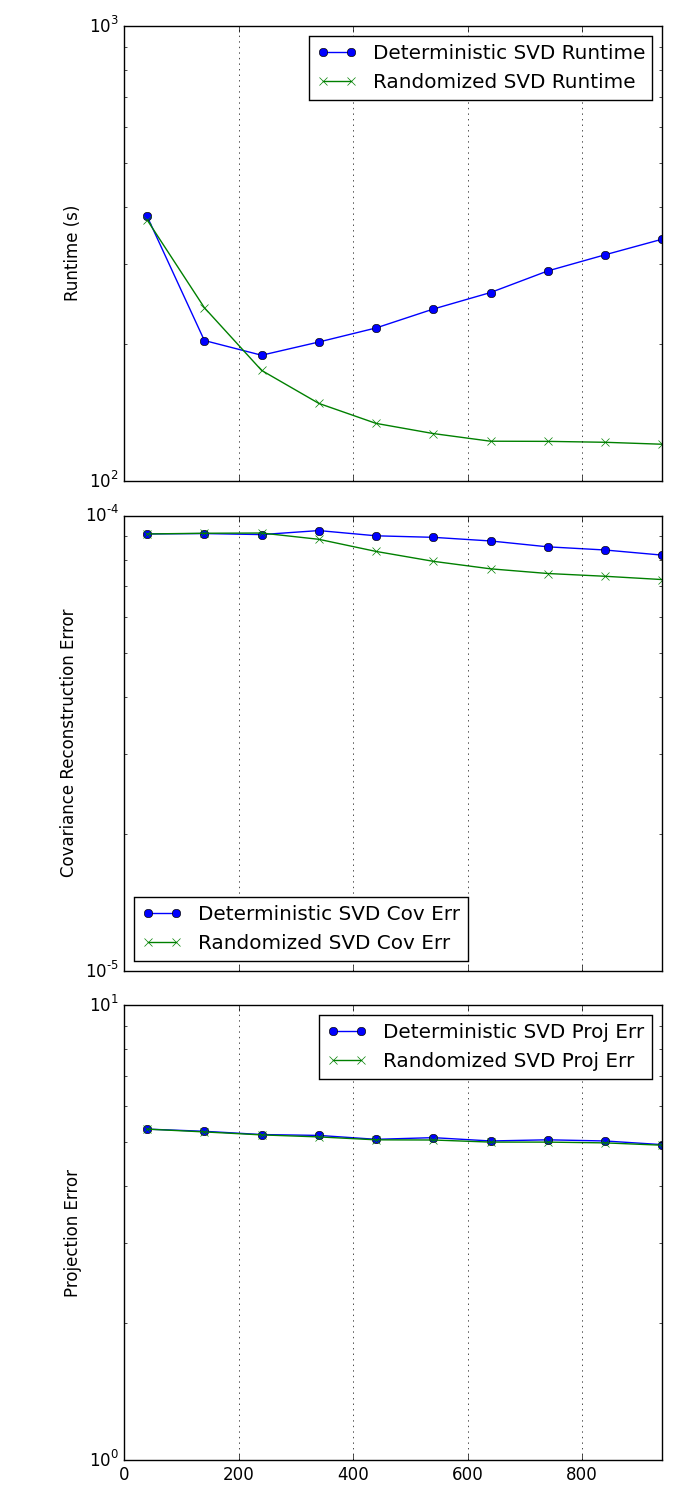
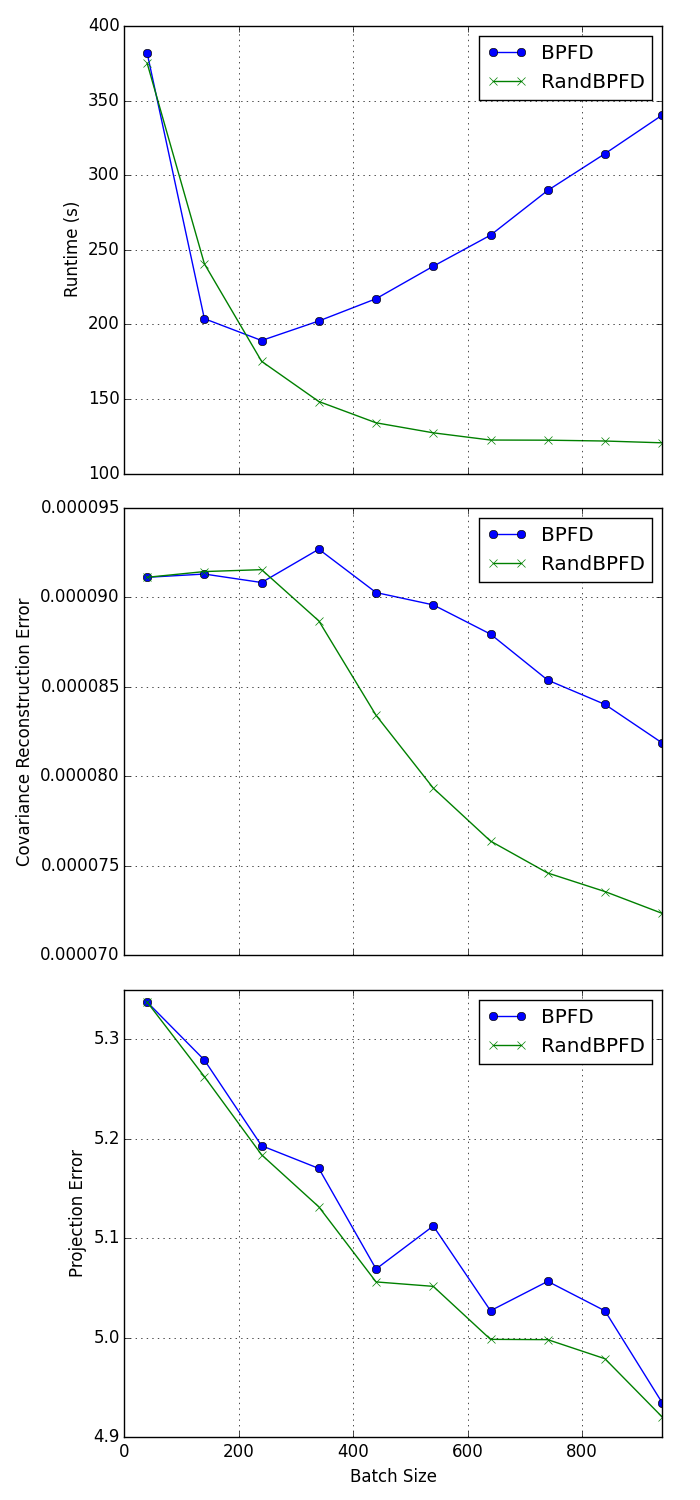
pulling in kmeans

diff --git a/plot_experiments.py b/plot_experiments.py
@@ -6,6 +6,61 @@ from experiments import DynamicSketchExperiment
 
 FIG_SIZE = (7, 15)
 
+def plot_lbounds_err(results_fname):
+    with open(results_fname, "rb") as f:
+        results = pickle.load(f)
+    fig, ax_arr = plt.subplots(2, figsize=(8, 10))
+    # l hat bounds
+    changepoints = np.sort(filter(lambda x: isinstance(x, (int, long)), results.keys()))
+    xlims = [0, changepoints[-1]]
+    l1 = results['l1_size']
+    l2 = results['l2_size']
+    l_bounds = [results[t]['l_bound'] for t in changepoints]
+    errs = [0.000014, 0.000021, 0.000029, 0.000038, 0.000046, 0.000054, 0.000063, 0.000071, 0.00008, 0.000088]
+    ax_arr[0].plot(changepoints, errs, '-o', label='cov err')
+    ax_arr[0].hlines(0.00009, xlims[0], xlims[1], linestyle='--', label='l1 bound')
+    ax_arr[0].hlines(0.000014, xlims[0], xlims[1], linestyle='-', label='l2 bound')
+    ax_arr[0].set_ylabel("Covariance Error")
+    #ax_arr[0].set_xlabel("Changepoint")
+    ax_arr[0].set_xlim(xlims)
+
+    ax_arr[1].plot(changepoints, l_bounds, '-o', label='l bound')
+    ax_arr[1].hlines(l1, xlims[0], xlims[1], linestyle='--', label='l1')
+    ax_arr[1].hlines(l2, xlims[0], xlims[1], linestyle='-', label='l2')
+    ax_arr[1].set_ylabel("Bound on Realized L")
+    ax_arr[1].set_xlabel("Changepoint")
+    ax_arr[1].set_xlim(xlims)
+    ax_arr[1].set_ylim((100, 700))
+
+    for ax in ax_arr:
+        ax.grid()
+        ax.legend(loc='best')
+    plt.xlim(xlims)
+    
+    fig.savefig(os.path.join(results['exp_dir'], "new_results.png"))
+
+
+def plot_lbounds(results_fname):
+    with open(results_fname, "rb") as f:
+        results = pickle.load(f)
+    fig = plt.figure()
+    # l hat bounds
+    changepoints = np.sort(filter(lambda x: isinstance(x, (int, long)), results.keys()))
+    xlims = [0, changepoints[-1]]
+    l1 = results['l1_size']
+    l2 = results['l2_size']
+    l_bounds = [results[t]['l_bound'] for t in changepoints]
+    plt.plot(changepoints, l_bounds, '-o', label='l Bound')
+    plt.hlines(l1, xlims[0], xlims[1], linestyle='--', label='l1')
+    plt.hlines(l2, xlims[0], xlims[1], linestyle='-', label='l2')
+    plt.ylabel("Bound on Realized L")
+    plt.xlabel("Changepoint")
+    plt.xlim(xlims)
+    plt.ylim(max(l1/1.1, 0), l2 * 1.1)
+    plt.legend(loc='best')
+    plt.grid()
+    fig.savefig(os.path.join(results['exp_dir'], "l_results.png"))
+
 # changepoint vs 
 def plot_dynamic_sketch_experiment(results_fname, save=True):
     """
@@ -80,7 +135,6 @@ def plot_tweak_batched_experiment(results_fname, save=True):
     fig, ax_arr = plt.subplots(3, sharex=True, figsize=FIG_SIZE)
     plt.ticklabel_format(style='sci', axis='y', scilimits=(-5,5))
 
-
     # plot runtimes
     batch_times = [results['batch'][a]['time'] for a in alphas]
     tweak_times = [results['tweak'][a]['time'] for a in alphas]
@@ -102,7 +156,7 @@ def plot_tweak_batched_experiment(results_fname, save=True):
     ax_arr[2].plot(alphas, tweak_proj_errs, '-x', label='PFD Proj Err')
     ax_arr[2].set_ylabel("Projection Error")
     ax_arr[2].legend(loc='best')
-
+    ax_arr[2].set_xlabel("Alpha")
     plt.tight_layout()
     for ax in ax_arr:
         ax.grid()
@@ -114,6 +168,37 @@ def plot_tweak_batched_experiment(results_fname, save=True):
         fig.savefig(os.path.join(results['exp_dir'], "results.png"))
     else:
         fig.show()
+
+def plot_error_bpfd():
+    alphas = np.arange(0.1, 1.1, 0.1)
+    print "Alphas ", alphas
+    xlims = [0, alphas[-1] + 0.1]
+    fig, ax_arr = plt.subplots(2, sharex=True, figsize=(7, 10))
+    plt.ticklabel_format(style='sci', axis='y', scilimits=(-5,5))
+    # from 
+    batch_cov_errs = [0.000175, 0.000181, 0.000186, 0.000188, 0.000191, 0.000194, 0.000196, 0.000197, 0.000199, 0.000210]
+    batch_proj_errs = [1.415417, 1.436476, 1.454169, 1.469601, 1.483738, 1.496000, 1.507494, 1.517669, 1.527717, 1.536952]
+    ax_arr[0].plot(alphas, batch_cov_errs, '-o', label='BPFD Cov Err')
+    ax_arr[1].plot(alphas, batch_proj_errs, '-o', label='BPFD Proj Err')
+    ax_arr[0].set_ylabel("Covariance Error")
+    ax_arr[1].set_ylabel("Projection Error")
+    ax_arr[1].set_xlabel("Alpha")
+    plt.tight_layout()
+    for ax in ax_arr:
+        ax.grid()
+    fig.savefig('experiments/bpfd_err.png')
+
+def plot_rand_scale():
+    with open("experiments/rand_scale/results2.p", "rb") as f:
+        results = pickle.load(f)
+    sketch_sizes = np.sort(results.keys())
+    fig = plt.figure()
+    times = [results[l] for l in sketch_sizes]
+    plt.plot(sketch_sizes, times, '-o')
+    plt.xlabel("Sketch Size")
+    plt.ylabel("Runtime (s)")
+    plt.grid()
+    fig.savefig('experiments/rand_scale/rand_scale2.png')
 
 # do we also want to create a function to plot alpha experiment? 
 # we have the data here on alpha choice tho! cause we also plot errors 
@@ -127,31 +212,32 @@ def plot_batched_sketch_experiment(results_fname, save=True):
     # plot runtimes
     svd_times = [results['svd'][b]['time'] for b in batch_sizes]
     rand_times = [results['rand'][b]['time'] for b in batch_sizes]
-    ax_arr[0].plot(batch_sizes, svd_times, '-o', label='Deterministic SVD Runtime')
-    ax_arr[0].plot(batch_sizes, rand_times, '-x', label='Randomized SVD Runtime')
+    ax_arr[0].plot(batch_sizes, svd_times, '-o', label='BPFD')
+    ax_arr[0].plot(batch_sizes, rand_times, '-x', label='RandBPFD')
     ax_arr[0].set_ylabel("Runtime (s)")
     ax_arr[0].legend(loc='best')
     # plot covariance errors
     svd_cov_errs = [results['svd'][b]['err'] for b in batch_sizes]
     rand_cov_errs = [results['rand'][b]['err'] for b in batch_sizes]
-    ax_arr[1].plot(batch_sizes, svd_cov_errs, '-o', label='Deterministic SVD Cov Err')
-    ax_arr[1].plot(batch_sizes, rand_cov_errs, '-x', label='Randomized SVD Cov Err')
+    ax_arr[1].plot(batch_sizes, svd_cov_errs, '-o', label='BPFD')
+    ax_arr[1].plot(batch_sizes, rand_cov_errs, '-x', label='RandBPFD')
     ax_arr[1].set_ylabel("Covariance Reconstruction Error")
     ax_arr[1].legend(loc='best')
     # plot projection errors
     svd_proj_errs = [results['svd'][b]['proj_err'] for b in batch_sizes]
     rand_proj_errs = [results['rand'][b]['proj_err'] for b in batch_sizes]
-    ax_arr[2].plot(batch_sizes, svd_proj_errs, '-o', label='Deterministic SVD Proj Err')
-    ax_arr[2].plot(batch_sizes, rand_proj_errs, '-x', label='Randomized SVD Proj Err')
+    ax_arr[2].plot(batch_sizes, svd_proj_errs, '-o', label='BPFD')
+    ax_arr[2].plot(batch_sizes, rand_proj_errs, '-x', label='RandBPFD')
     ax_arr[2].set_ylabel("Projection Error")
     ax_arr[2].legend(loc='best')
     ax_arr[2].set_xlabel("Batch Size")
+    #ax_arr[2].set_scale("log")
 
     # format plot 
     plt.tight_layout()
     for ax in ax_arr:
         ax.grid()
-        ax.set_yscale('log')
+        #ax.set_yscale('log')
         ax.set_xlim(xlims)
     if save:
         fig.savefig(os.path.join(results['exp_dir'], "results.png"))
@@ -265,11 +351,14 @@ def plot_scalability(results_fname="experiments/parallel_ESOC/ESOC/results.p"):
     plt.show()
 
 
-def plot_kmeans(results_fname='experiments/kmeans/w2vec/results.p'):
+def plot_kmeans(sketch_results_fname='experiments/kmeans/cifar/large_sketch_results.p', mat_results_fname='experiments/kmeans/cifar/mat_results.p'):
     # what does the plot look like
     fig = plt.figure()
-    with open(results_fname, "rb") as f:
-        results = pickle.load(f)
+    results = {}
+    with open(sketch_results_fname, "rb") as f:
+        results['sketch'] = pickle.load(f)['sketch']
+    with open(mat_results_fname, "rb") as f:
+        results['opt'] = pickle.load(f)['opt']
     clusters = [5, 10, 15, 20]
     opt_data = []
     sketch_data = []
@@ -282,17 +371,19 @@ def plot_kmeans(results_fname='experiments/kmeans/w2vec/results.p'):
     print np.array(sketch_times) + 64
     print sketch_costs
     print opt_costs
-    plt.plot(clusters, np.array(sketch_costs)/np.array(opt_costs), '-o', label='sketch')
-    plt.yscale('log')
+    plt.plot(clusters, np.array(sketch_times)/np.array(opt_times), '-o')
+    #plt.plot(clusters, np.array(sketch_costs), '-o', label='sketch')
+    #plt.yscale('log')
     #plt.plot(clusters, opt_costs, '-o', label="opt")
-
     # what do we do for times? 
     plt.xlabel("Clusters")
-    plt.ylabel("K-Means Cost")
+    plt.ylabel("K-Means Relative Cost (Sketch/OPT)")
     plt.legend(loc='best')
-    fig_path = os.path.split(results_fname)[0]
-    fig.savefig(os.path.join(fig_path, "results.png"))
-    plt.show()
+    fig_path = os.path.split(sketch_results_fname)[0]
+    #plt.ylim((6, 9))
+    plt.grid()
+    fig.savefig(os.path.join(fig_path, "large_results.png"))
+
 
 # SAMPLE FILENAMES
 #fname = "experiments/tweak_batch_exp_small_data_batch_1/small_data_batch_1/results.p"
@@ -307,5 +398,11 @@ def plot_kmeans(results_fname='experiments/kmeans/w2vec/results.p'):
 if __name__ == "__main__":
     #plot_scalability()
     #path = "experiments/dynamic_exp_cifar_data_200_600/cifar_data/results.p"
-    #plot_dynamic_sketch_experiment(path, save=True)
+    #path = "experiments/tweak_batch_exp_data_batch_1/data_batch_1/results.p"
+    #plot_tweak_batched_experiment(path)
     plot_kmeans()
+    #plot_comparison_experiment("experiments/sketch_exp_data_batch_1/data_batch_1/results.p")
+    #plot_dynamic_sketch_experiment("experiments/dynamic_exp_cifar_data_200_600/cifar_data/results.p")
+    #plot_batched_sketch_experiment("experiments/rand_batch_exp_cifar_data/cifar_data/results.p")
+    #plot_rand_scale()
+    #plot_lbounds_err("experiments/dynamic_exp_cifar_data_200_600/cifar_data/results.p")

diff --git a/experiments.py b/experiments.py
@@ -627,19 +627,20 @@ def test_dyn_exp():
     dyn_exp.write_results()
 
 def test_rand_exp():
-    mat_fname = "data_batch_1.txt"
+    mat_fname = "small_data_batch_1"
     l = 200
     sketch_sizes = [100, 200, 300, 400, 500]
     batch_sizes =[5, 10, 20]
     alpha = 0.2
     exp_name = 'test_rand_bpfd_experiment'
     mat = load_matrix(mat_fname)
+    print mat.shape
     results = {}
     for l in sketch_sizes:
-        sk_o = BatchPFDSketch(mat, l, 500, alpha, randomized=True)
+        sk_o = BatchPFDSketch(mat, l, 5000, alpha, randomized=True)
         sk_o.compute_sketch()
         results[l] = sk_o.sketching_time
-    with open("experiments/rand_scale/results.p", "wb") as f:
+    with open("experiments/rand_scale/results2.p", "wb") as f:
         pickle.dump(results, f) 
     print "Done"
     #exp = BatchRandomPFDSketchExperiment(exp_name, mat_fname, l, alpha, batch_sizes, runs=3)
@@ -659,5 +660,5 @@ def test_par_exp():
 
 
 if __name__ == "__main__":
-    kmeans_experiment(on_sketch=True, on_orig=True)
-    #test_rand_exp()
+    #kmeans_experiment(on_sketch=True, on_orig=True)
+    test_rand_exp()
